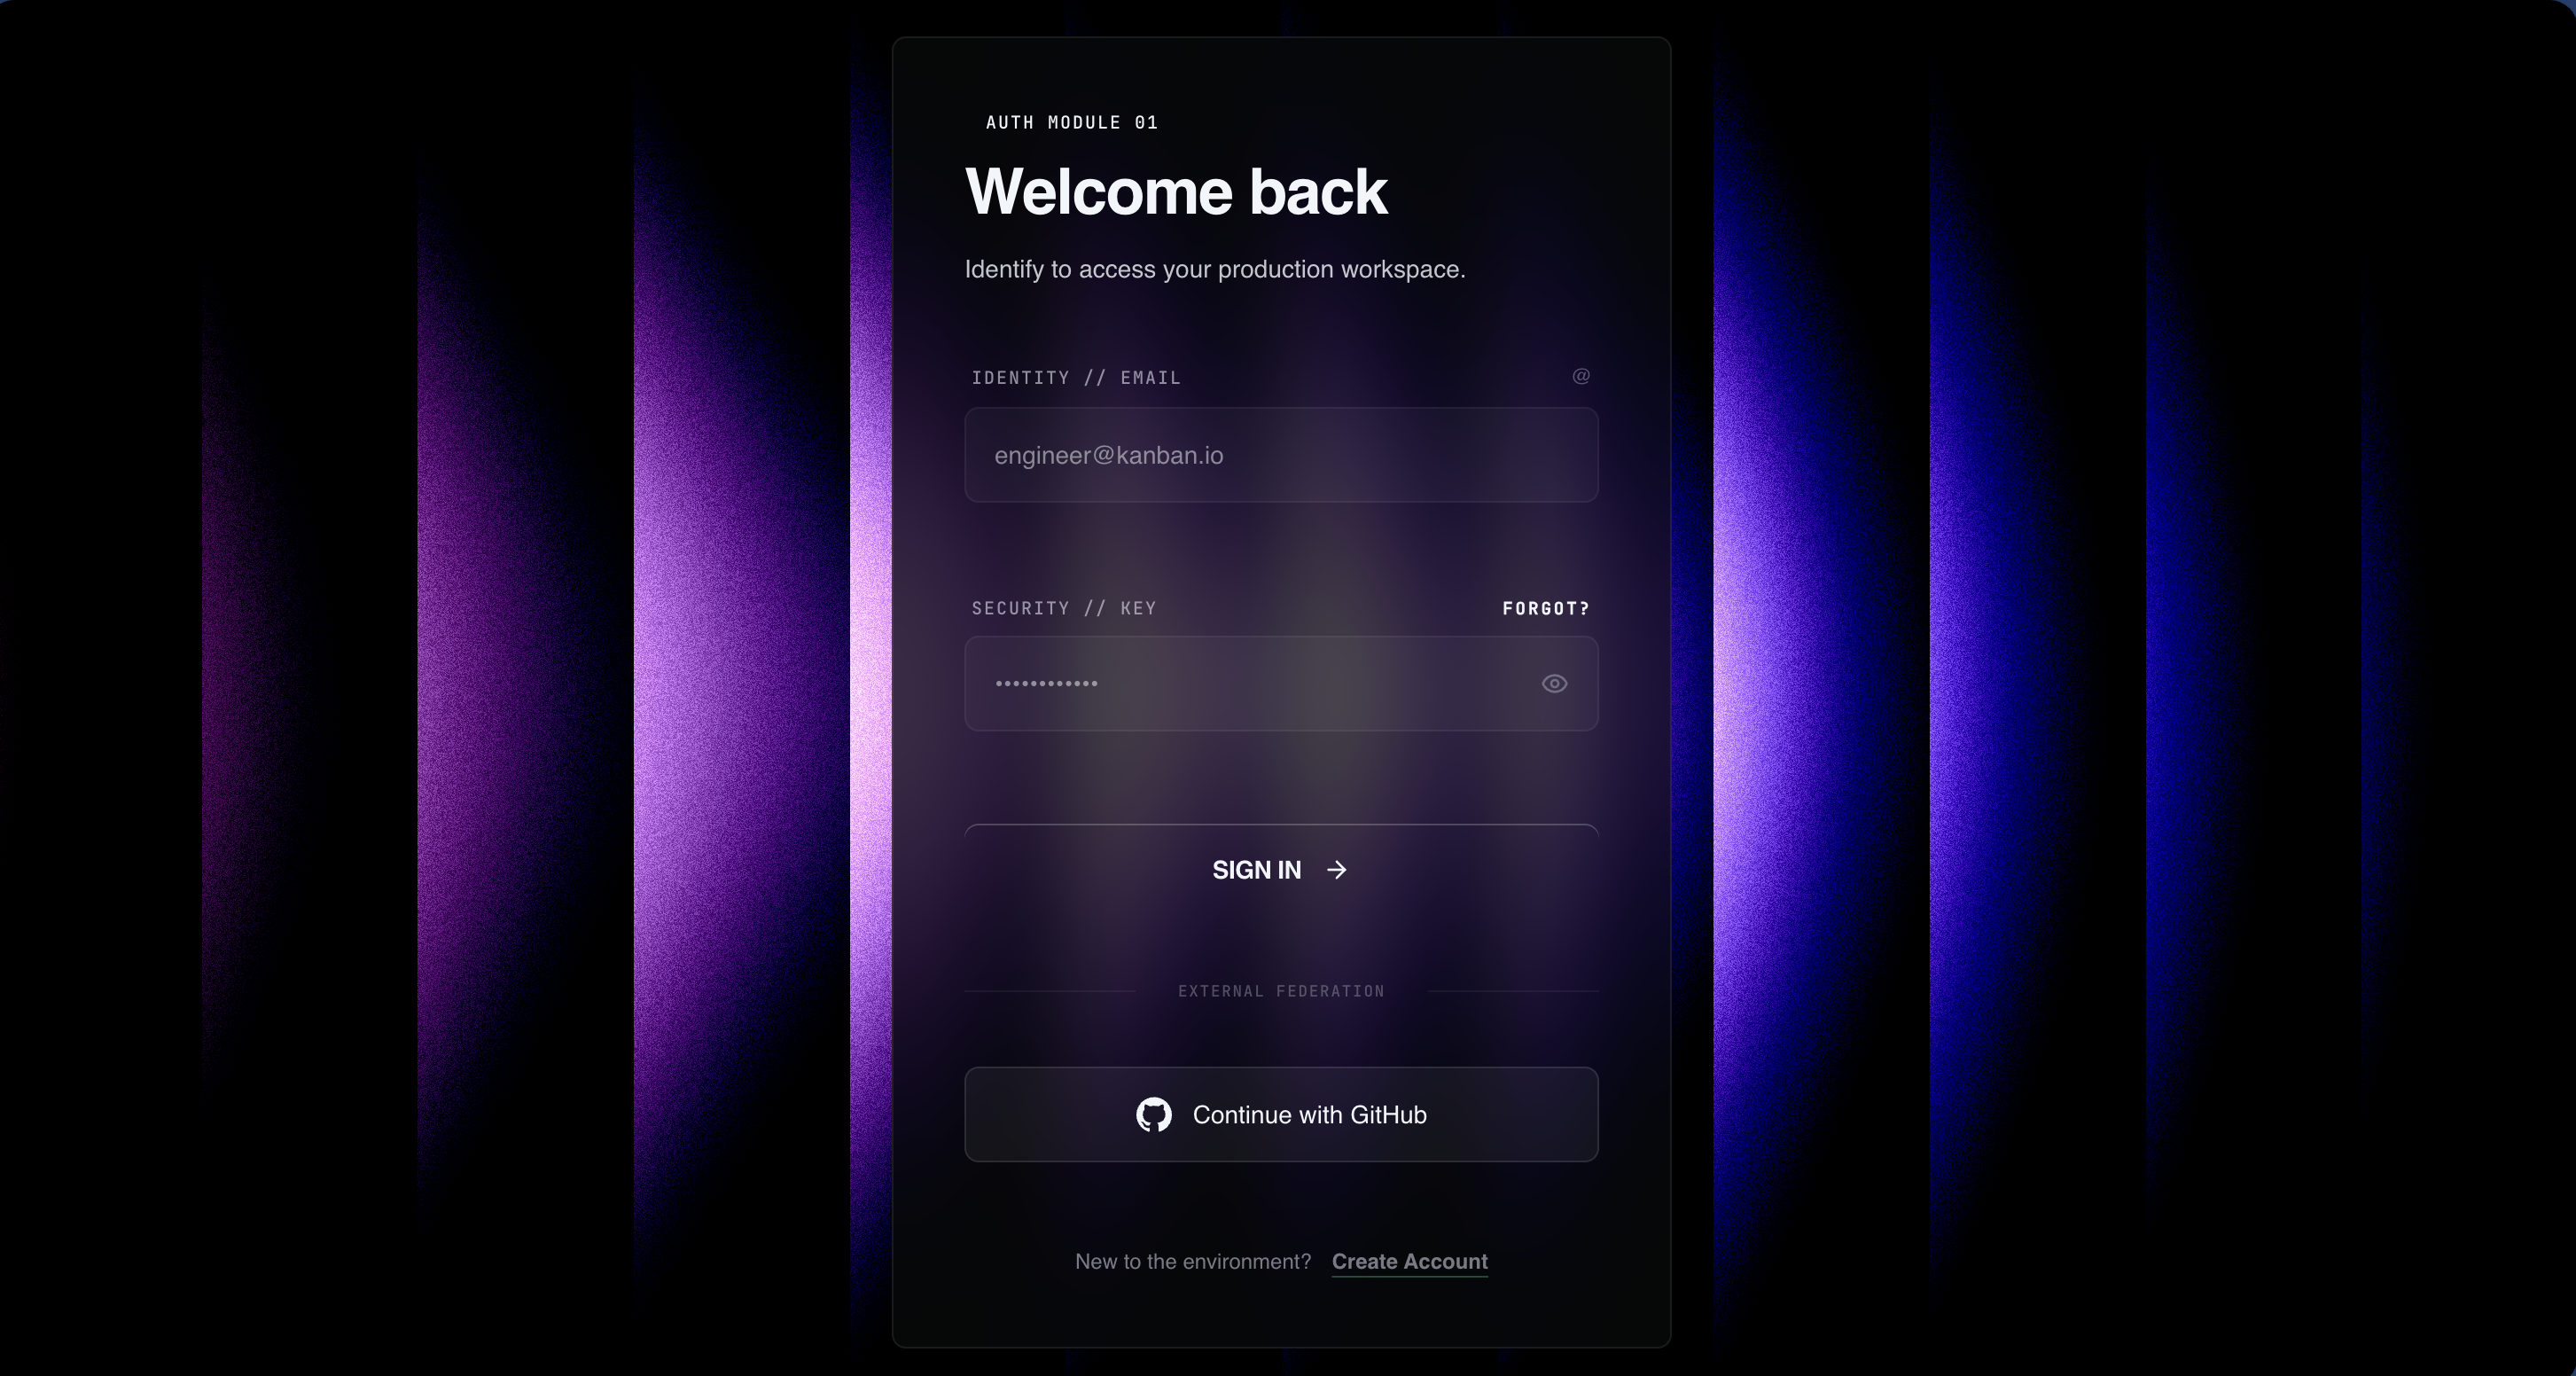
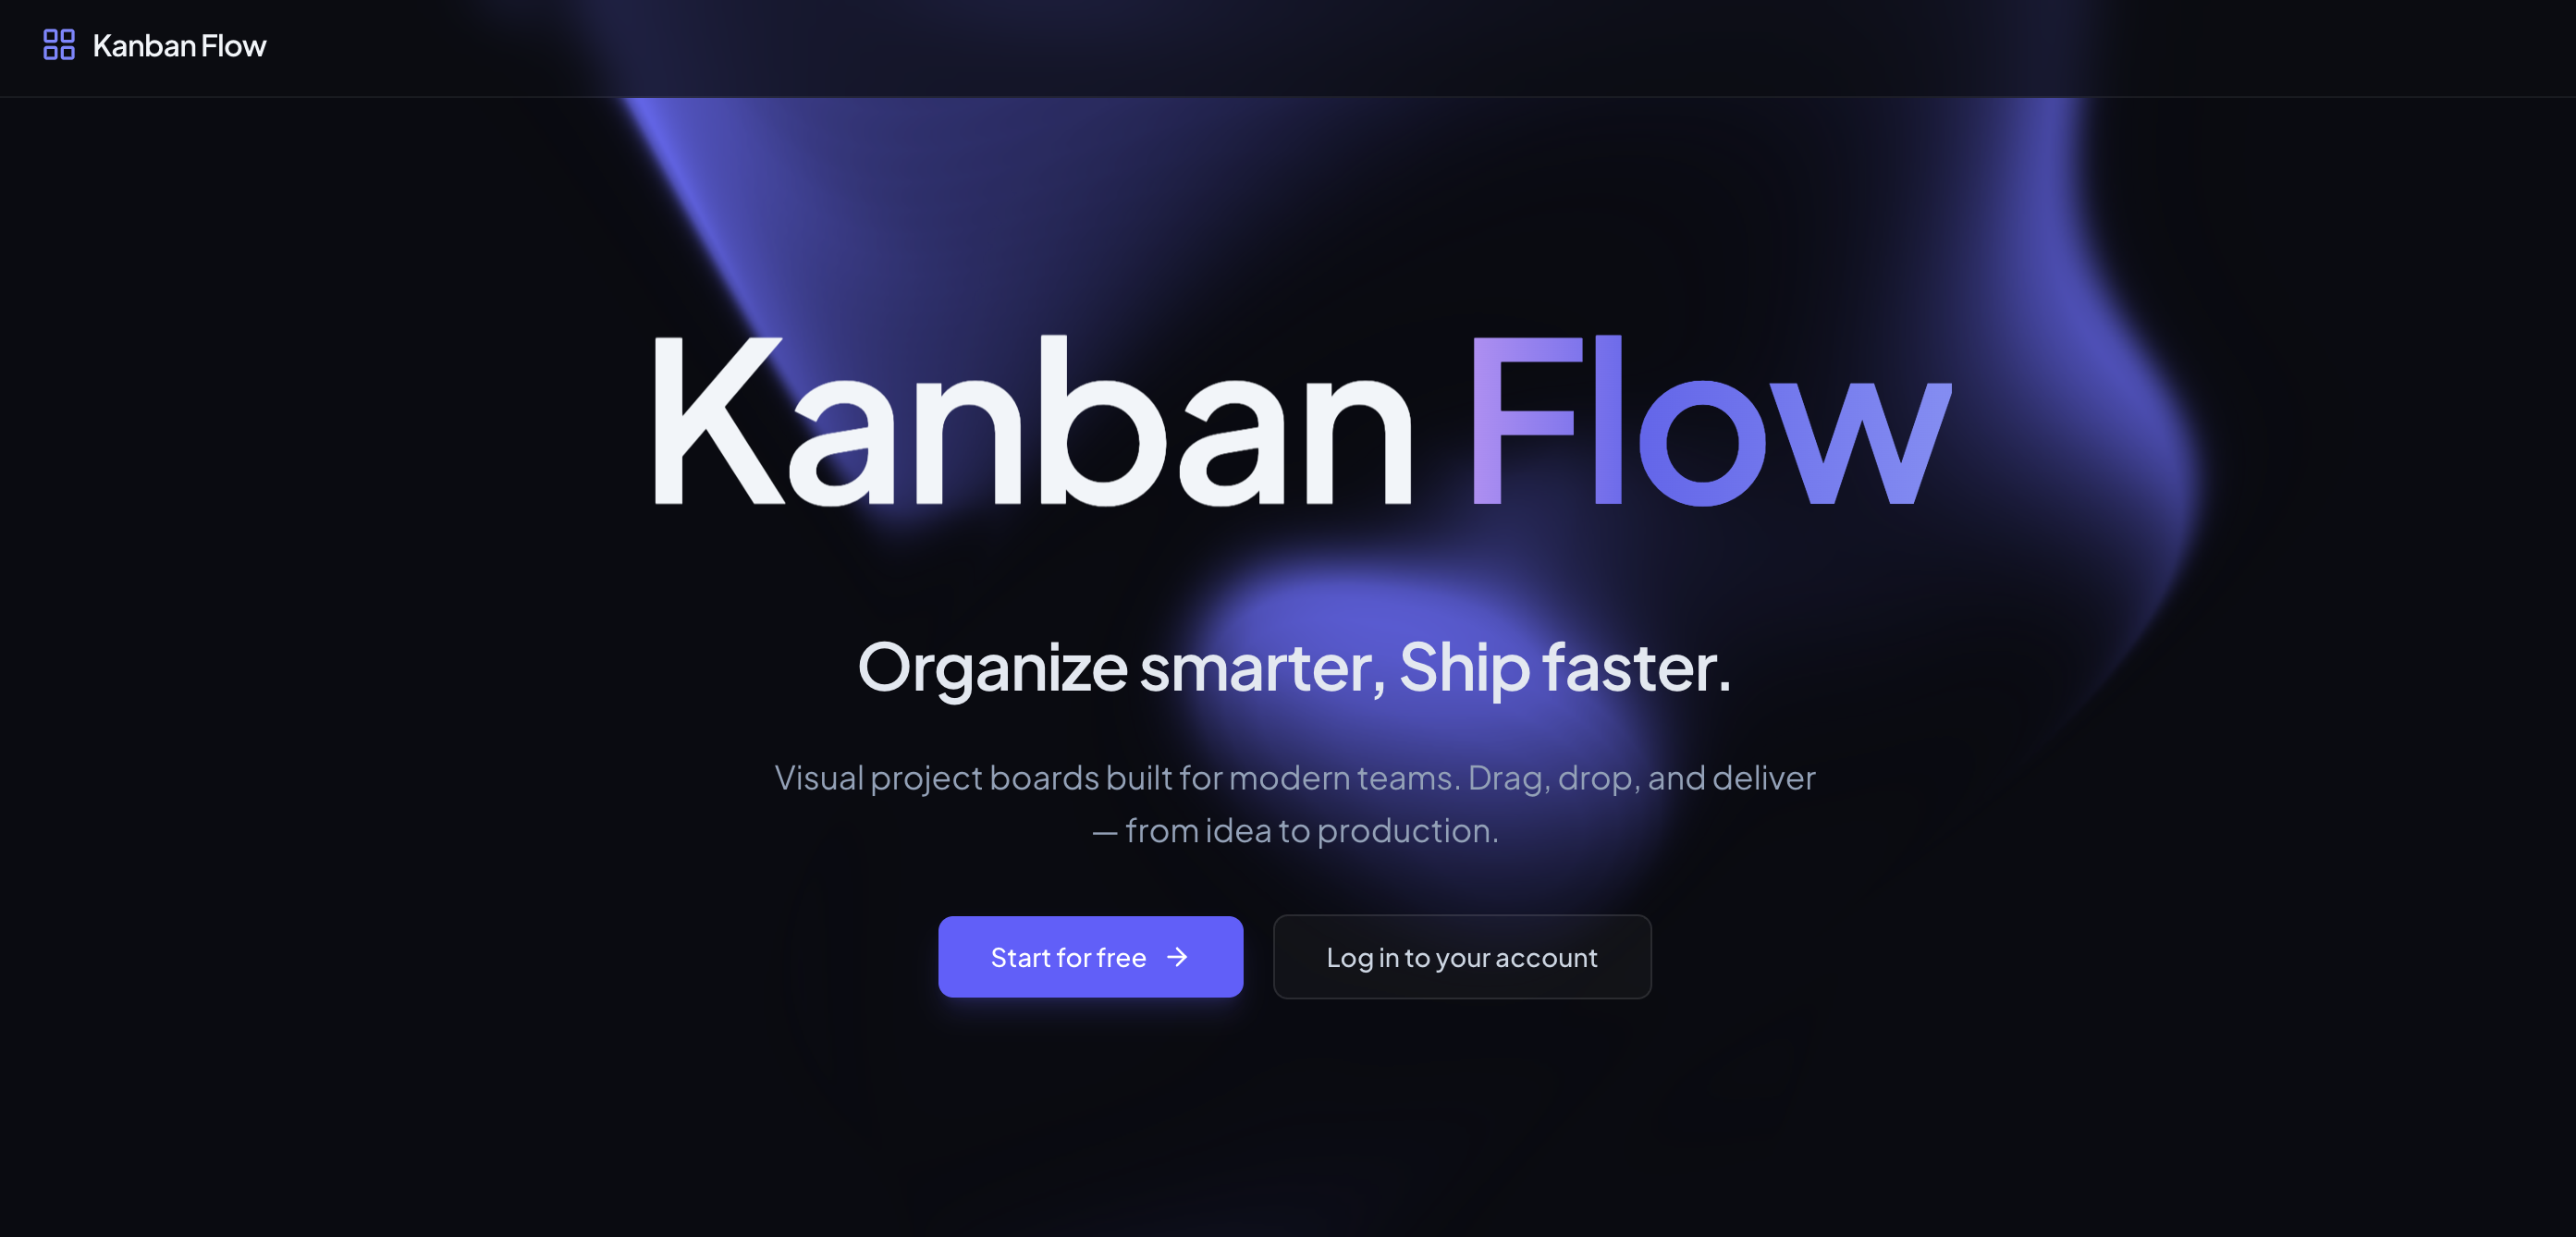
fix: disposition text fixed and images updated

diff --git a/src/components/sections/Projects.tsx b/src/components/sections/Projects.tsx
@@ -110,7 +110,7 @@ export function Projects() {
                     }}
                   >
                     {/* Project screenshot */}
-                    <div className="relative h-56 overflow-hidden" style={{ background: '#0E0E12' }}>
+                    <div className="relative h-60 overflow-hidden" style={{ background: '#0E0E12' }}>
                       {project.image && (
                         <img
                           src={project.image as string}
@@ -120,22 +120,22 @@ export function Projects() {
                         />
                       )}
                       {/* Gradient overlay at bottom for readability */}
-                      <div className="absolute bottom-0 left-0 right-0 h-12 bg-gradient-to-t from-[#0E0E12] to-transparent" />
+                      <div className="absolute bottom-0 left-0 right-0 h-10 bg-gradient-to-t from-[#0E0E12] to-transparent" />
                     </div>
 
                     {/* Card content */}
-                    <div className="p-5">
-                      <div className="flex items-start justify-between gap-3 mb-2">
+                    <div className="px-5 pt-3 pb-2">
+                      <div className="flex items-start justify-between gap-3 mb-1.5">
                         <h3 className="text-white font-bold text-sm leading-tight">{title}</h3>
                         <div
-                          className="w-2 h-2 rounded-full flex-shrink-0 mt-1"
+                          className="w-2 h-2 rounded-full flex-shrink-0 mt-0.5"
                           style={{ backgroundColor: meta.accent, boxShadow: `0 0 8px ${meta.accent}` }}
                         />
                       </div>
-                      <p className="text-white/40 text-xs leading-relaxed mb-3 line-clamp-2">{description}</p>
+                      <p className="text-white/40 text-xs leading-relaxed mb-2.5">{description}</p>
 
                       {/* Tech tags */}
-                      <div className="flex flex-wrap gap-1.5 mb-3">
+                      <div className="flex flex-wrap gap-1.5 mb-2.5">
                         {(project.techStack ?? []).slice(0, 4).map(tag => (
                           <span
                             key={tag}